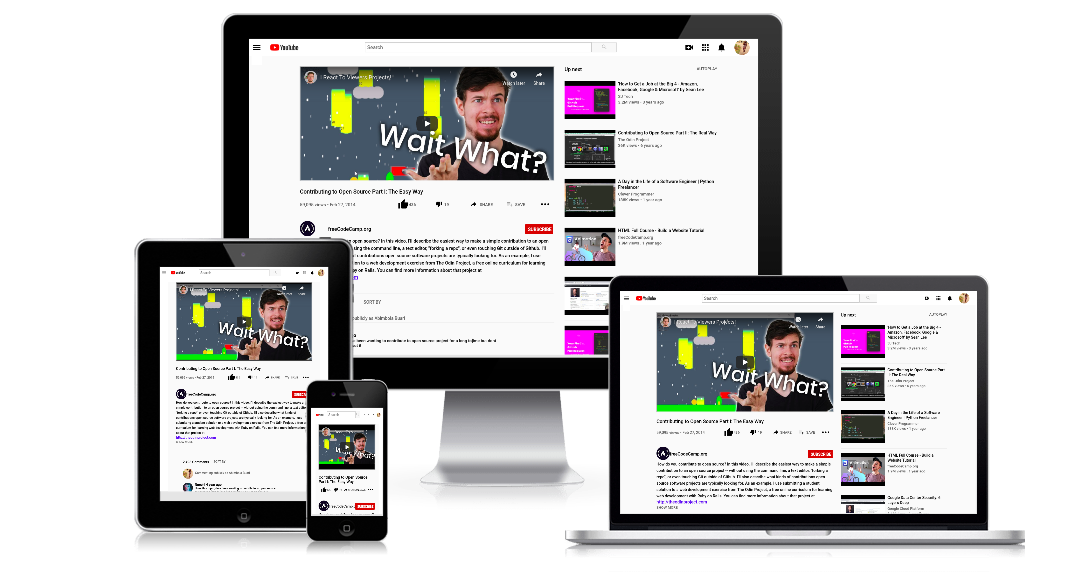
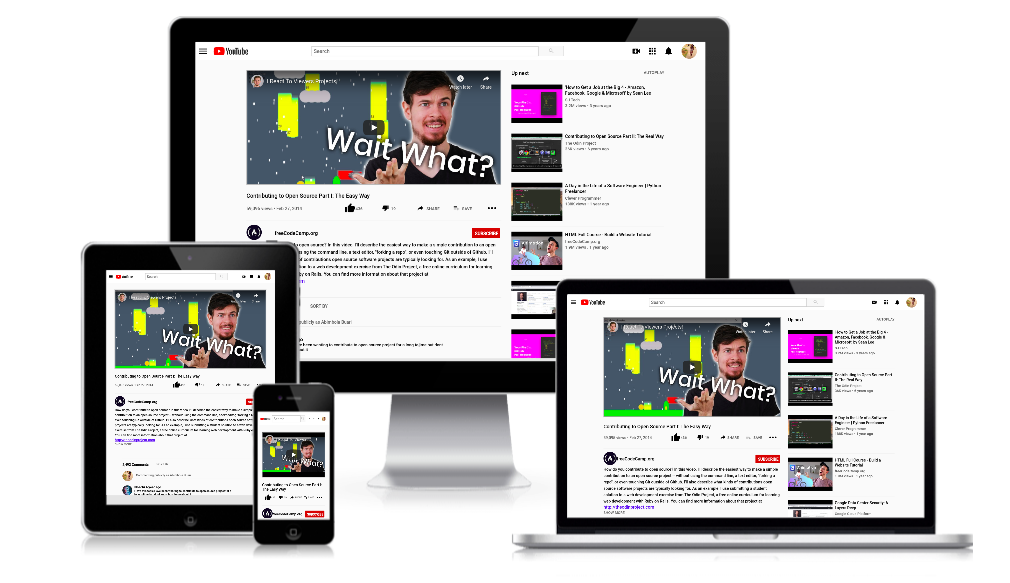
fix: Update readme preview screenshot

Changed region(s): [[0.0614, 0.0, 0.9822, 0.9774]]

diff --git a/index.html b/index.html
@@ -13,7 +13,7 @@
 
   <body>
     <header class="header">
-      <nav class="header-logo">
+      <div class="header-logo">
         <button class="button" type="button" aria-label="icon">
           <svg viewBox="0 0 24 24" preserveAspectRatio="xMidYMid meet" focusable="false">
             <g>
@@ -22,7 +22,7 @@
           </svg>
         </button>
         <img src="./image/youtube.svg" class="logo" alt="Youtube" />
-      </nav>
+      </div>
 
       <form class="search">
         <input aria-label="search input" type="text" placeholder="Search" class="search-box" />
@@ -43,7 +43,7 @@
         </button>
       </form>
 
-      <nav class="header-icon">
+      <div class="header-icon">
         <svg viewBox="0 0 24 24" preserveAspectRatio="xMidYMid meet" focusable="false" class="icon">
           <g class="icon">
             <path
@@ -69,7 +69,7 @@
           </g>
         </svg>
         <img src="./image/abimbolayoutube.jpg" class="image" alt="Avatar image" />
-      </nav>
+      </div>
     </header>
 
     <main class="container">

diff --git a/css/index.css b/css/index.css
@@ -21,7 +21,7 @@ This imports the `reset.css` file */
   flex-wrap: nowrap;
   justify-content: space-between;
   align-items: center;
-  background-color: rgb(255,255,255);
+  background-color: rgb(255, 255, 255);
 }
 
 .header-logo {
@@ -399,15 +399,18 @@ This imports the `reset.css` file */
     width: 90%;
     margin: 2em auto;
   }
+
   .container {
     background-color: rgb(250, 250, 250);
     display: block;
-    margin: 0em auto;
+    margin: 0 auto;
   }
-.header {
-  position: fixed;
-  top: 0;
-}
+
+  .header {
+    position: fixed;
+    top: 0;
+  }
+
   .header-logo,
   .search-icon {
     width: 15%;
@@ -426,7 +429,7 @@ This imports the `reset.css` file */
   .container {
     background-color: rgb(250, 250, 250);
     display: block;
-    margin: 0em auto;
+    margin: 0 auto;
   }
 
   .header-logo {
@@ -460,7 +463,7 @@ This imports the `reset.css` file */
 
   .header {
     position: fixed;
-    top: 0em;
+    top: 0;
   }
 
   .search {

diff --git a/README.md b/README.md
@@ -14,7 +14,7 @@
 
 ## Live Demo
 
-[Live Demo Link](https://deploy-preview-1--bimbola-youtube-clone.netlify.app/)
+[Live Demo Link](bimbola-youtube-clone.netlify.app/)
 
 ### Development (Running locally)
 
